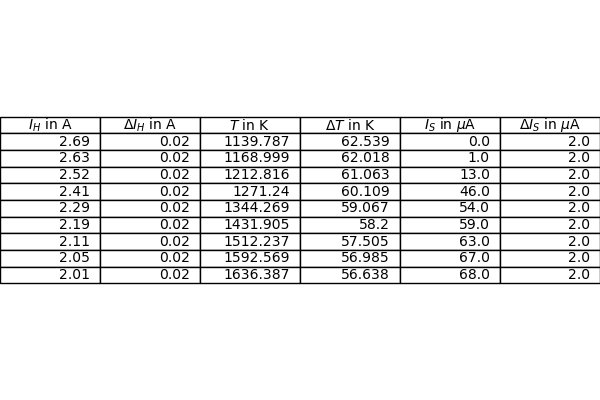
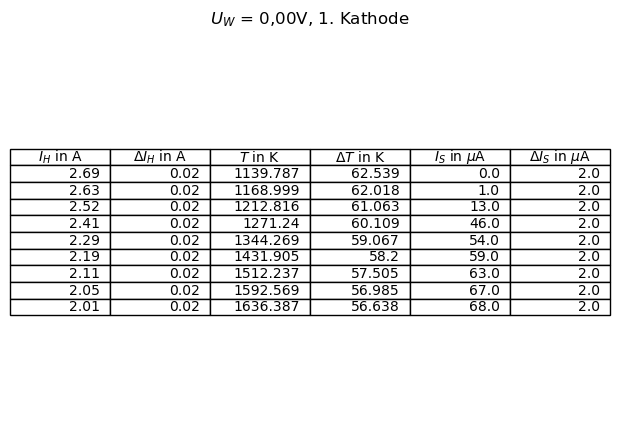
ELO

Changed region(s): [[0.0, 0.27, 1.0, 0.72], [0.33, 0.03, 0.66, 0.06]]

diff --git a/FP/2.-ELO.py b/FP/2.-ELO.py
@@ -129,7 +129,7 @@ for i in range(4):
     # ax[i].set(xlim=(0,8))
     # ax[i].set(ylim=(-0.2,2.2))
     ax[i+countFiles+1].set_xlabel("$1/T$ in $K^{-1}$")
-    ax[i+countFiles+1].set_ylabel("$ln(I_S/T^2)$ in ln($\mu$A/$K^2$)")
+    ax[i+countFiles+1].set_ylabel("$ln(I_S/T^2)$")
     ax[i+countFiles+1].set_title(f"{stri[fitplots[i]//3]} = {val[fitplots[i]]}, {fitplots[i]//4+1}. Kathode")
 
 """ Regressionskurve """ 
@@ -182,8 +182,22 @@ for i in range(3,countFiles):
     ax.append(fig[i-3].add_axes([0,0,1,1]))
     ax[i-3].table(cellText=b,colLabels=labels,loc='center',rowLoc='center')
     ax[i-3].axis("off")
-    ax[i-3]
+    ax[i-3].set_title(f"{stri[i//3]} = {val[i]}, {i//4+1}. Kathode")
+    
+for i in range(4):
+    b = []
+    b.append(np.around(x_data_new[i][minind[i]:],6))
+    b.append(np.around(xerr_new[i][minind[i]:],6))
+    b.append(np.around(y_data_new[i][minind[i]:],3))
+    b.append(np.around(yerr_new[i][minind[i]:],3))
+    labels = ["$1/T$ in $K^{-1}$","$\Delta 1/T$ in $K^{-1}$","$ln(I_S/T^2)$","$\Delta ln(I_S/T^2)$"]
+    b = np.array(b).T
+    fig.append(plt.figure())
+    ax.append(fig[i+5].add_axes([0,0,1,1]))
+    ax[i+5].table(cellText=b,colLabels=labels,loc='center',rowLoc='center')
+    ax[i+5].axis("off")
+    ax[i+5].set_title(f"{stri[fitplots[i]//3]} = {val[fitplots[i]]}, {fitplots[i]//4+1}. Kathode")
 
 """ Plot speichern """
-for i in range(5):
-    fig[i].savefig("./2.Plots/%s_%s_table.png"%(versuchsname,i), dpi=100) # Bild als png Datei in Ordner Plots gespeichert
+for i in range(9):
+    fig[i].savefig("./2.Plots/%s_%s_table.png"%(versuchsname,i), bbox_inches='tight', dpi=100) # Bild als png Datei in Ordner Plots gespeichert
